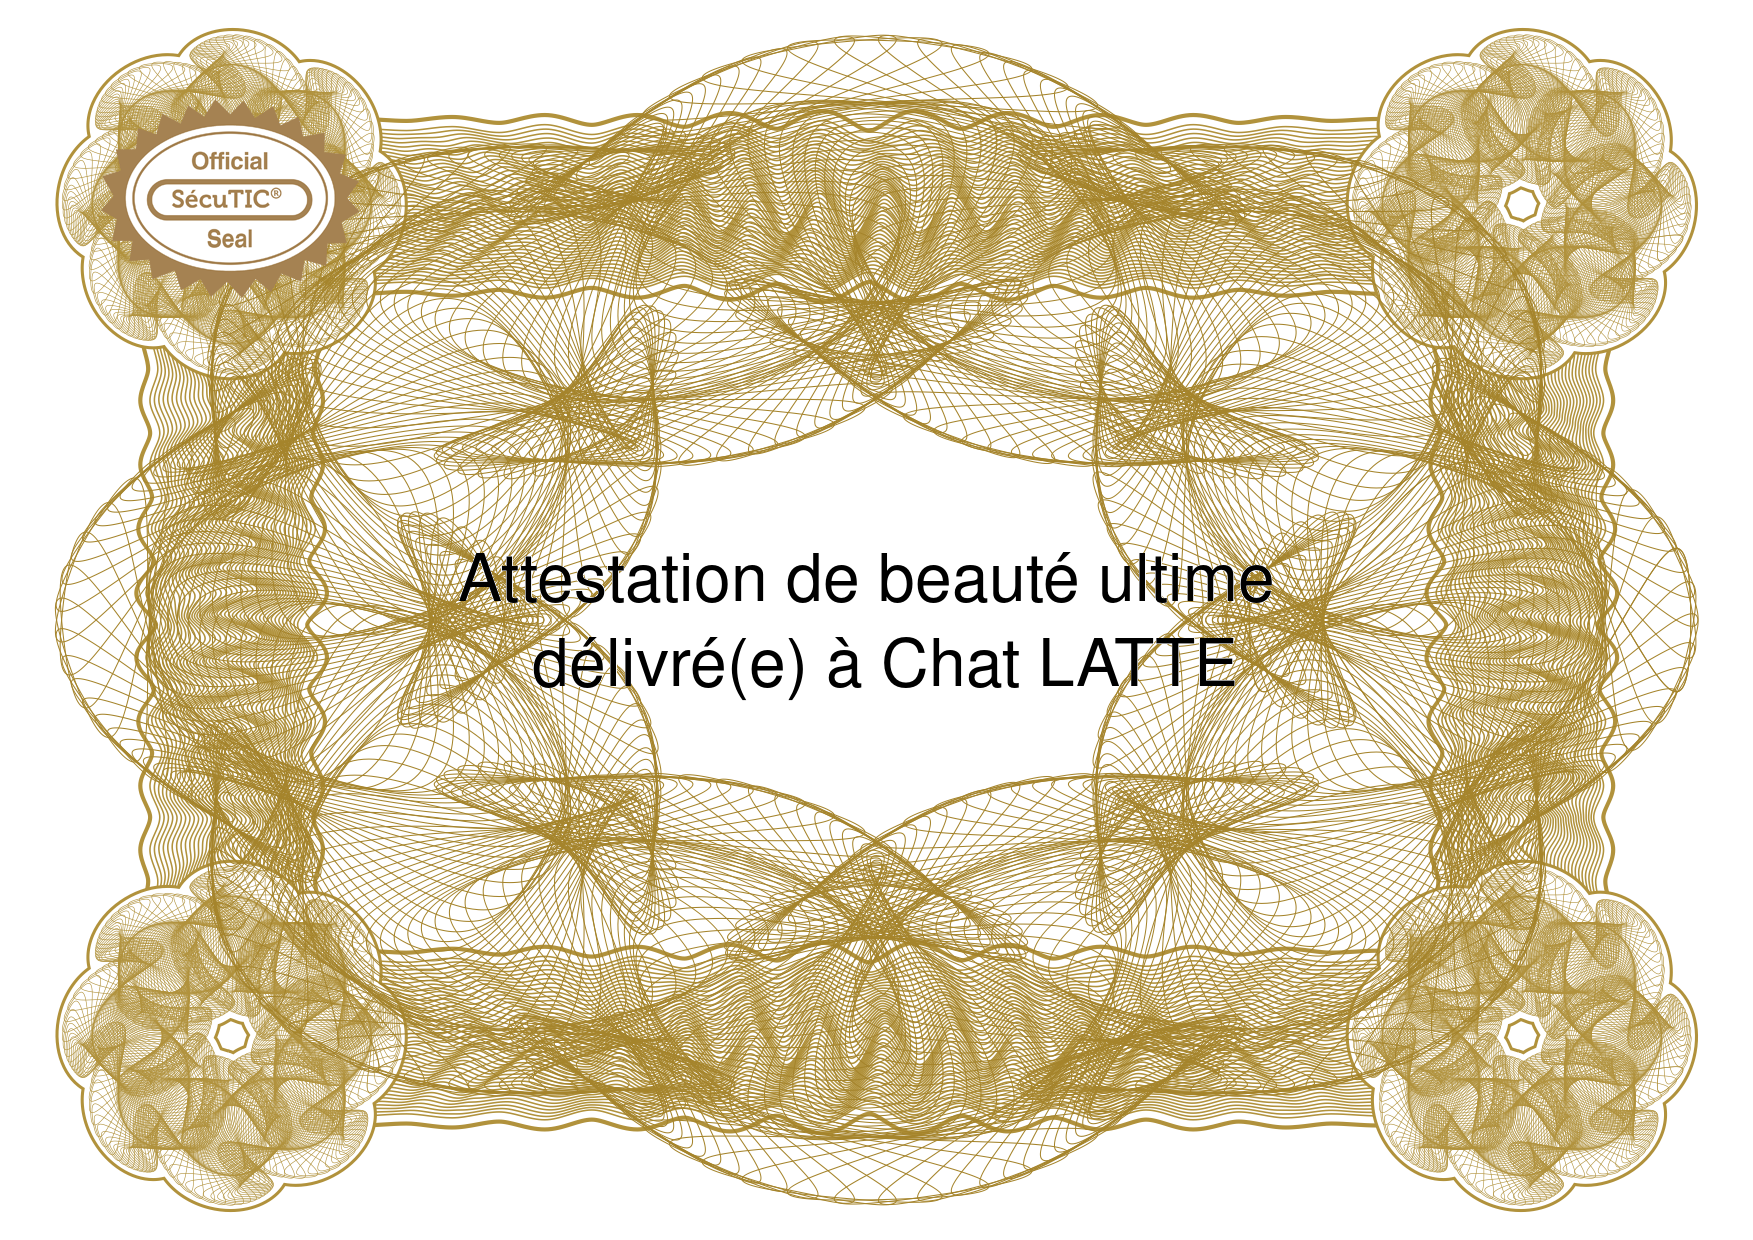
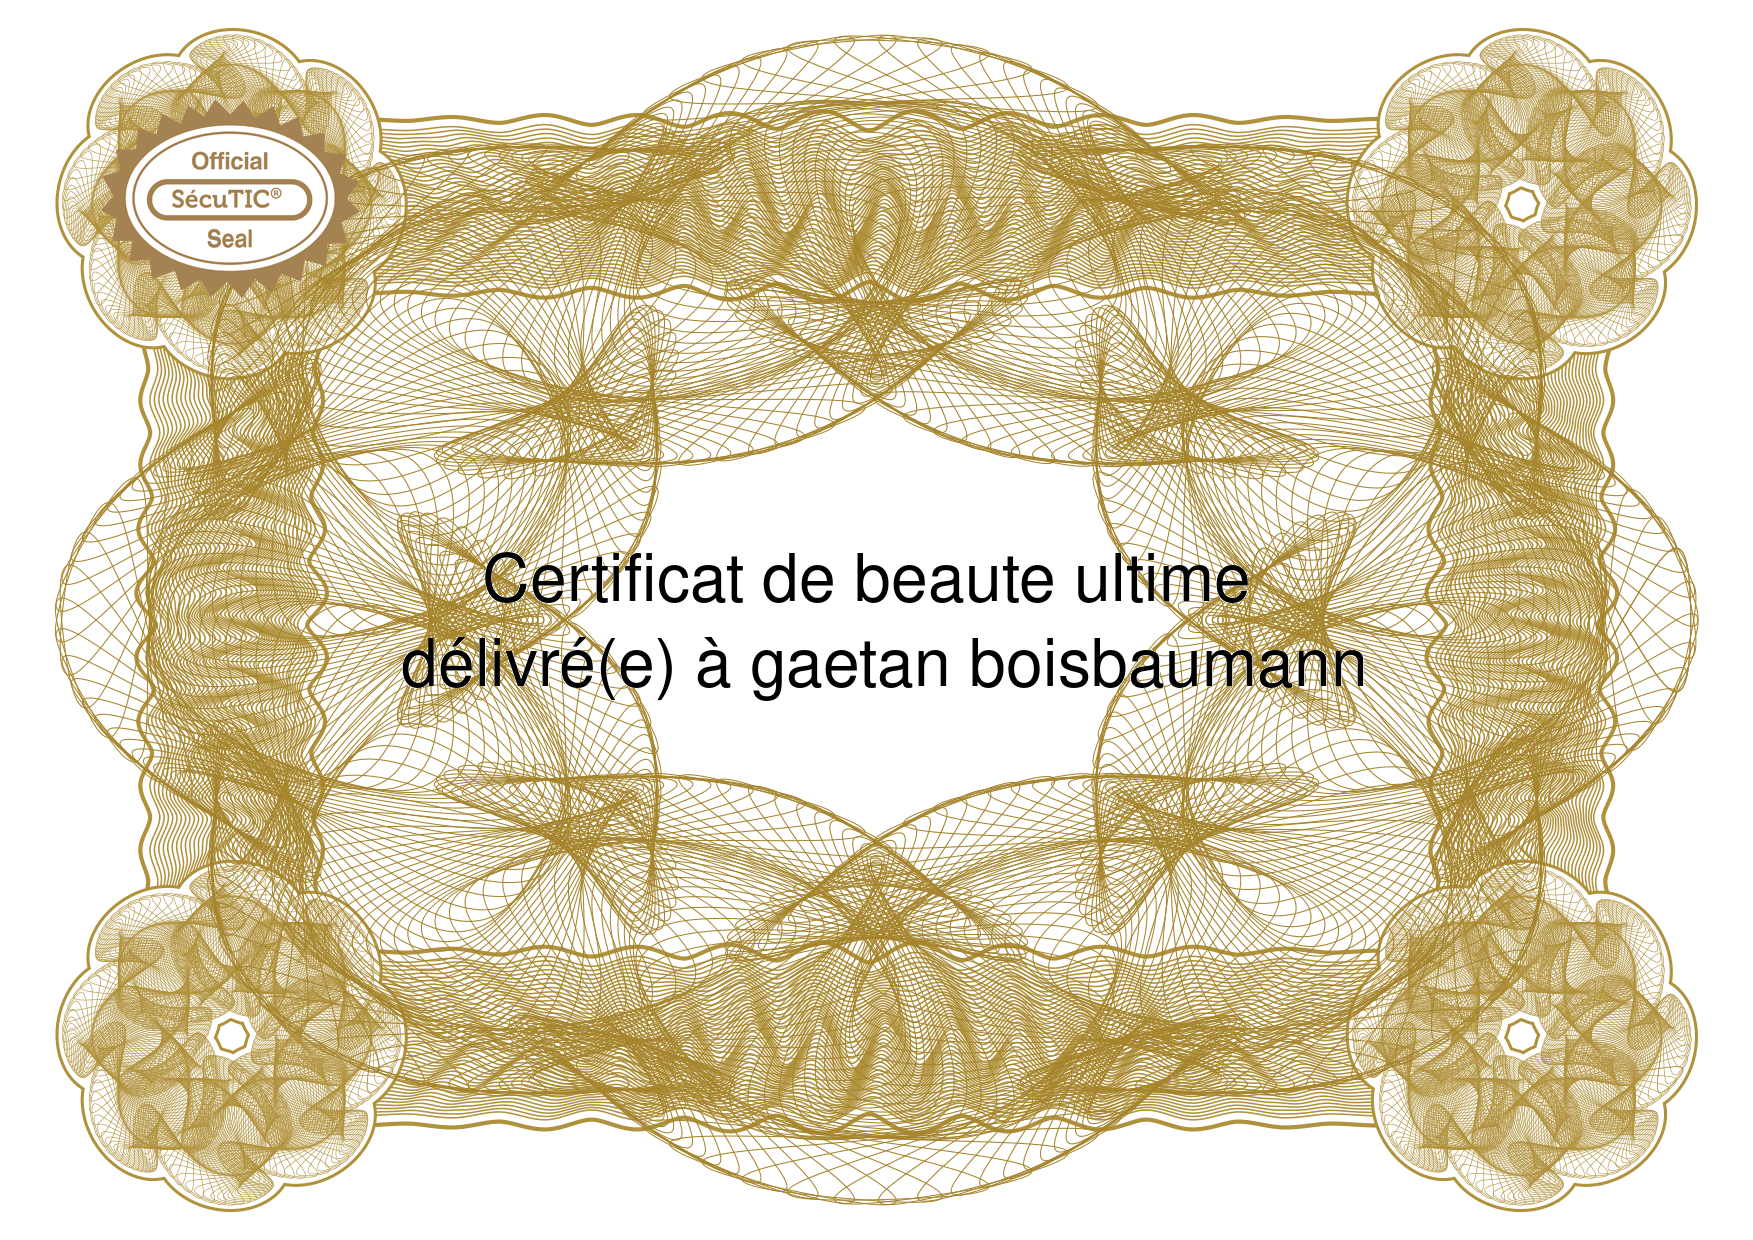
CA verification et début de l'implémentation main.py

Changed region(s): [[0.2156, 0.429, 0.8009, 0.5823]]

diff --git a/src/serveur_frontal.py b/src/serveur_frontal.py
@@ -8,6 +8,7 @@ import urllib.parse
 import re
 import sys
 import datetime
+from time import sleep
 
 class ServeurFrontal:
     def __init__(self, serveur_applicatif: ServeurApplicatif):
@@ -54,7 +55,8 @@ class ServeurFrontal:
     #@route('/fond')
     def recuperer_fond(self):
         response.set_header('Content-type', 'image/png')
-        descripteur_fichier = open('./src/img/attestation.png','rb')
+        
+        descripteur_fichier = open('./src/img/attestation_stegano.png','rb')
         contenu_fichier = descripteur_fichier.read()
         descripteur_fichier.close()
         return contenu_fichier
@@ -86,23 +88,26 @@ class ServeurFrontal:
         # Récupération des informations
         contenu_email = request.forms.get('email')
         nom_etudiant: str = contenu_email.split(".")[0]
-        prenom_etudiant: str = contenu_email.split(".")[1]
+        prenom_etudiant: str = contenu_email.split(".")[1].split("@")[0]
         contenu_intitulé_certification = request.forms.get('intitule_certif')
         contenu_mot_de_passe = request.forms.get('mdp')
         etudiant_actuel: Etudiant = Etudiant(nom_etudiant, prenom_etudiant, Certificat(contenu_intitulé_certification))
-        
+
+        # Le SSO ne fonctionne plus depuis le 2FA (Top !!)
+        """
         # Vérification de l'étudiant avec le SSO de l'université
         cookies: list = self.contacter_sso_universite(contenu_email, contenu_mot_de_passe)
         if cookies:
             # Intéraction avec le serveur d'application
-            # TODO signature on fait quoi??? Ce n'est pas le serveur d'application qui fait ça ?
-            self.serveur_applicatif.creation_certificat(etudiant_actuel, "TODO voir quoi mettre ici")
+            self.serveur_applicatif.creation_certificat(etudiant_actuel)
 
             # Réponse
             response.set_header('Content-type', 'text/plain')
             return "ok!"
         
         return "Mot de passe ou nom de l'utilisateur incorrecte"
+        """
+        self.serveur_applicatif.creation_certificat(etudiant_actuel)
 
     def extraire_intitule_du_bloc(self, bloc_info):
         return "" #TODO voir si on dois extraire les infos et is oui i faut un separateur
@@ -114,3 +119,6 @@ if __name__ == "__main__":
     serveurFrontal: ServeurFrontal = ServeurFrontal(serveurApplicatif)
     print(serveurFrontal.obtenir_date())
     serveurFrontal.demarrer()
+
+    # socat openssl-listen:9000,fork,cert=./src/cert/certCertifPlus/bundle_serveur.pem,cafile=./src/cert/certCertifPlus/ecc.ca.cert.pem,verify=0 tcp:127.0.0.1:8080
+    # curl -v -X GET --cacert ./src/cert/certCertifPlus/ecc.ca.cert.pem https://localhost:9000/fond

diff --git a/src/main.py b/src/main.py
@@ -2,11 +2,57 @@ from serveur_frontal import ServeurFrontal
 from serveur_applicatif import ServeurApplicatif
 from steganographie import Steganographie
 from etudiant import Etudiant
+from certificat import Certificat
 from employeur import Employeur
+from threading import Thread
+import subprocess
+from PIL import Image
+import io
+from time import sleep
 
 steganographie: Steganographie = Steganographie()
-serveur_applicatif: ServeurApplicatif = ServeurApplicatif(steganographie, "TODO")
+serveur_applicatif: ServeurApplicatif = ServeurApplicatif(steganographie, "TODO supprimer ?")
 serveur_frontal: ServeurFrontal = ServeurFrontal(serveur_applicatif)
-etudiant: Etudiant = Etudiant("Chatouille", "Latte", "Certificat de beauté ultime")
+etudiant: Etudiant = Etudiant("boisbaumann", "gaetan", Certificat("Certificat de beaute ultime"))
 
-employeur: Employeur = Employeur()
+# employeur: Employeur = Employeur()
+
+# socat openssl-listen:9000,fork,cert=./src/cert/certCertifPlus/bundle_serveur.pem,cafile=./src/cert/certCertifPlus/ecc.ca.cert.pem,verify=0 tcp:127.0.0.1:8080
+# curl -v -X GET --cacert ./src/cert/certCertifPlus/ecc.ca.cert.pem https://localhost:9000/fond
+
+t1 = Thread(target = serveur_frontal.demarrer)
+"""
+commande_socat = subprocess.Popen(
+            f'socat openssl-listen:9000,fork,cert=./src/cert/certCertifPlus/bundle_serveur.pem,cafile=./src/cert/certCertifPlus/ecc.ca.cert.pem,verify=0 tcp:127.0.0.1:8080',
+            shell=True, stdout=subprocess.PIPE)
+
+t2 = Thread(target = commande_socat.communicate)
+commande_curl = subprocess.Popen(
+            f'curl -v -X GET --cacert ./src/cert/certCertifPlus/ecc.ca.cert.pem https://localhost:9000/fond',
+            shell=True, stdout=subprocess.PIPE)
+
+t3 = Thread(target = commande_curl.communicate)
+
+
+sleep(2)
+# t2.start()
+sleep(2)
+# t3.start()
+print("a")
+"""
+t1.start()
+sleep(1)
+input("Commencer ?")
+"""
+commande_curl = subprocess.Popen(
+            f'curl -v -X GET --cacert ./src/cert/certCertifPlus/ecc.ca.cert.pem https://localhost:9000/fond',
+            shell=True, stdout=subprocess.PIPE)
+(resultat, _) = commande_curl.communicate()
+image = Image.open(io.BytesIO(resultat))
+#image.show()
+print(image)
+image.save("test.png")
+"""
+certificat = etudiant.demander_certificat("TODO")
+print(certificat)
+certificat.save("test.png")

diff --git a/src/etudiant.py b/src/etudiant.py
@@ -1,8 +1,9 @@
 from certificat import Certificat
 from PIL import Image
 import requests
+import subprocess
 from io import BytesIO
-
+from time import sleep
 
 class Etudiant:
     def __init__(self,nom:str,prenom:str, certificat:Certificat):
@@ -12,24 +13,30 @@ class Etudiant:
         
     
     def demander_certificat(self, mdp: str) -> Image:
+        print(self.certificat.intitule)
         data = {
             'email': f"{self.prenom}.{self.nom}@etu.unilim.fr",
             'intitule_certif': self.certificat.intitule,
-            'mdp': mdp  # verification du mdp cote serveur ?
+            'mdp': mdp 
         }
 
-        try:
-            response = requests.post('http://localhost:8080/creation', data=data)
-
-            if response.status_code == 200:
-                print("Mot de passe valide on recupere l'image")
-                return None  # car pour le moment, la requete ne retourne par l'image
-            elif response.status_code == 403:
-                print("Accès refusé par le serveur applicatif")
-            else:
-                print("Erreur lors de la création du certificat !")
-        except requests.RequestException as e:
-            raise Exception(f"Erreur réseau: {str(e)}")
+        commande_curl = subprocess.Popen(
+            f"curl -v -X POST -d 'email={data['email']}' -d 'intitule_certif={data['intitule_certif']}' -d 'mdp={data['mdp']}' --cacert ./src/cert/certCertifPlus/ecc.ca.cert.pem http://localhost:8080/creation",
+            shell=True, stdout=subprocess.PIPE)
+        (resultat, _) = commande_curl.communicate()
+        print(data, resultat.decode())
+        if resultat.decode() == "Mot de passe ou nom de l'utilisateur incorrecte":
+            return None
+        
+        print("Resultat:", resultat)
+        sleep(2)
+        
+        commande_curl = subprocess.Popen(
+            f'curl -v -X GET --cacert ./src/cert/certCertifPlus/ecc.ca.cert.pem https://localhost:9000/fond',
+            shell=True, stdout=subprocess.PIPE)
+        (resultat, _) = commande_curl.communicate()
+        image = Image.open(BytesIO(resultat))
+        return image
 
 
 

diff --git a/src/serveur_applicatif.py b/src/serveur_applicatif.py
@@ -29,7 +29,7 @@ class ServeurApplicatif:
         # commande=subprocess.Popen(f"curl -H 'Content-Type: application/timestamp-query' --data-binary '@./src/cert/certFreeTSA/timestamp.tsq' https://freetsa.org/tsr > ./src/cert/certFreeTSA/timestamp.tsr", shell=True,stdout=subprocess.PIPE)
         # (resultat, ignorer) = commande.communicate()
 
-    def creation_certificat(self, etudiant: Etudiant) -> Image:
+    def creation_certificat(self, etudiant: Etudiant):
         """
         Cette fonction crée ./src/img/attestation_stegano.png
         """
@@ -57,6 +57,7 @@ class ServeurApplicatif:
 
         self.obtenir_timestamp("./src/img/attestation.png")
         self.dissimulation_par_steganographie(bloc)
+    
 
     def creer_qrcode(self, chemin_signature: str):
         """

diff --git a/src/employeur.py b/src/employeur.py
@@ -25,7 +25,7 @@ class Employeur:
             'image': ('certificat.png', img_bytes, 'image/png')
         }
 
-        response = requests.post('http://localhost:8080/verification', files=files)
+        response = requests.post('https://localhost:8080/verification', files=files)
         try:
             if response.status_code == 200:
                 print("Certifié !")
